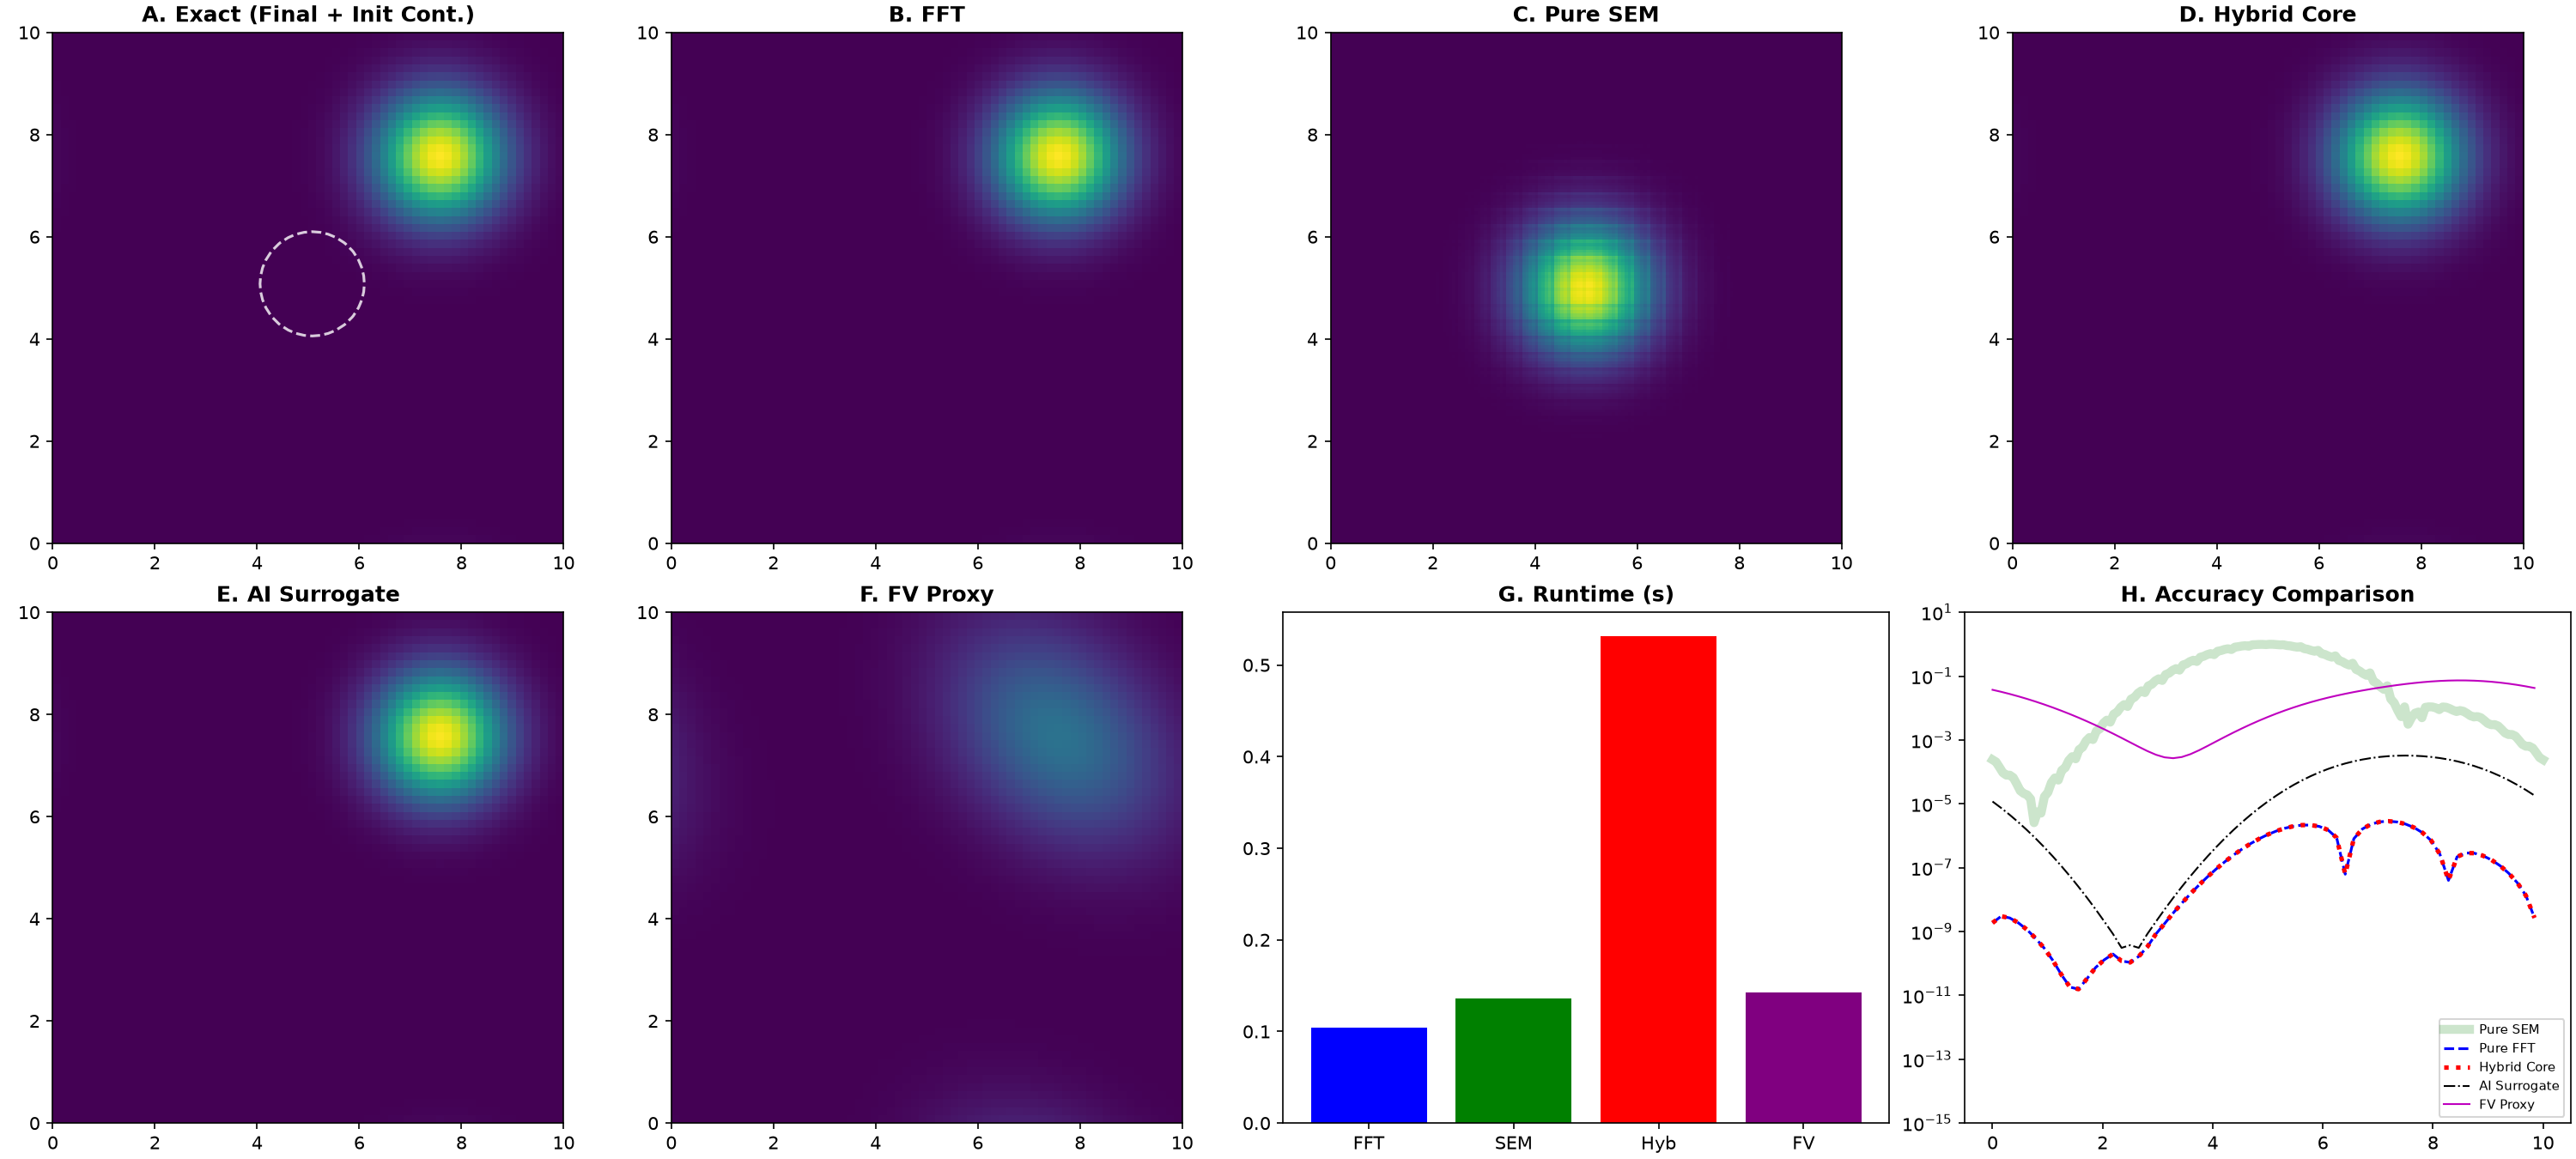
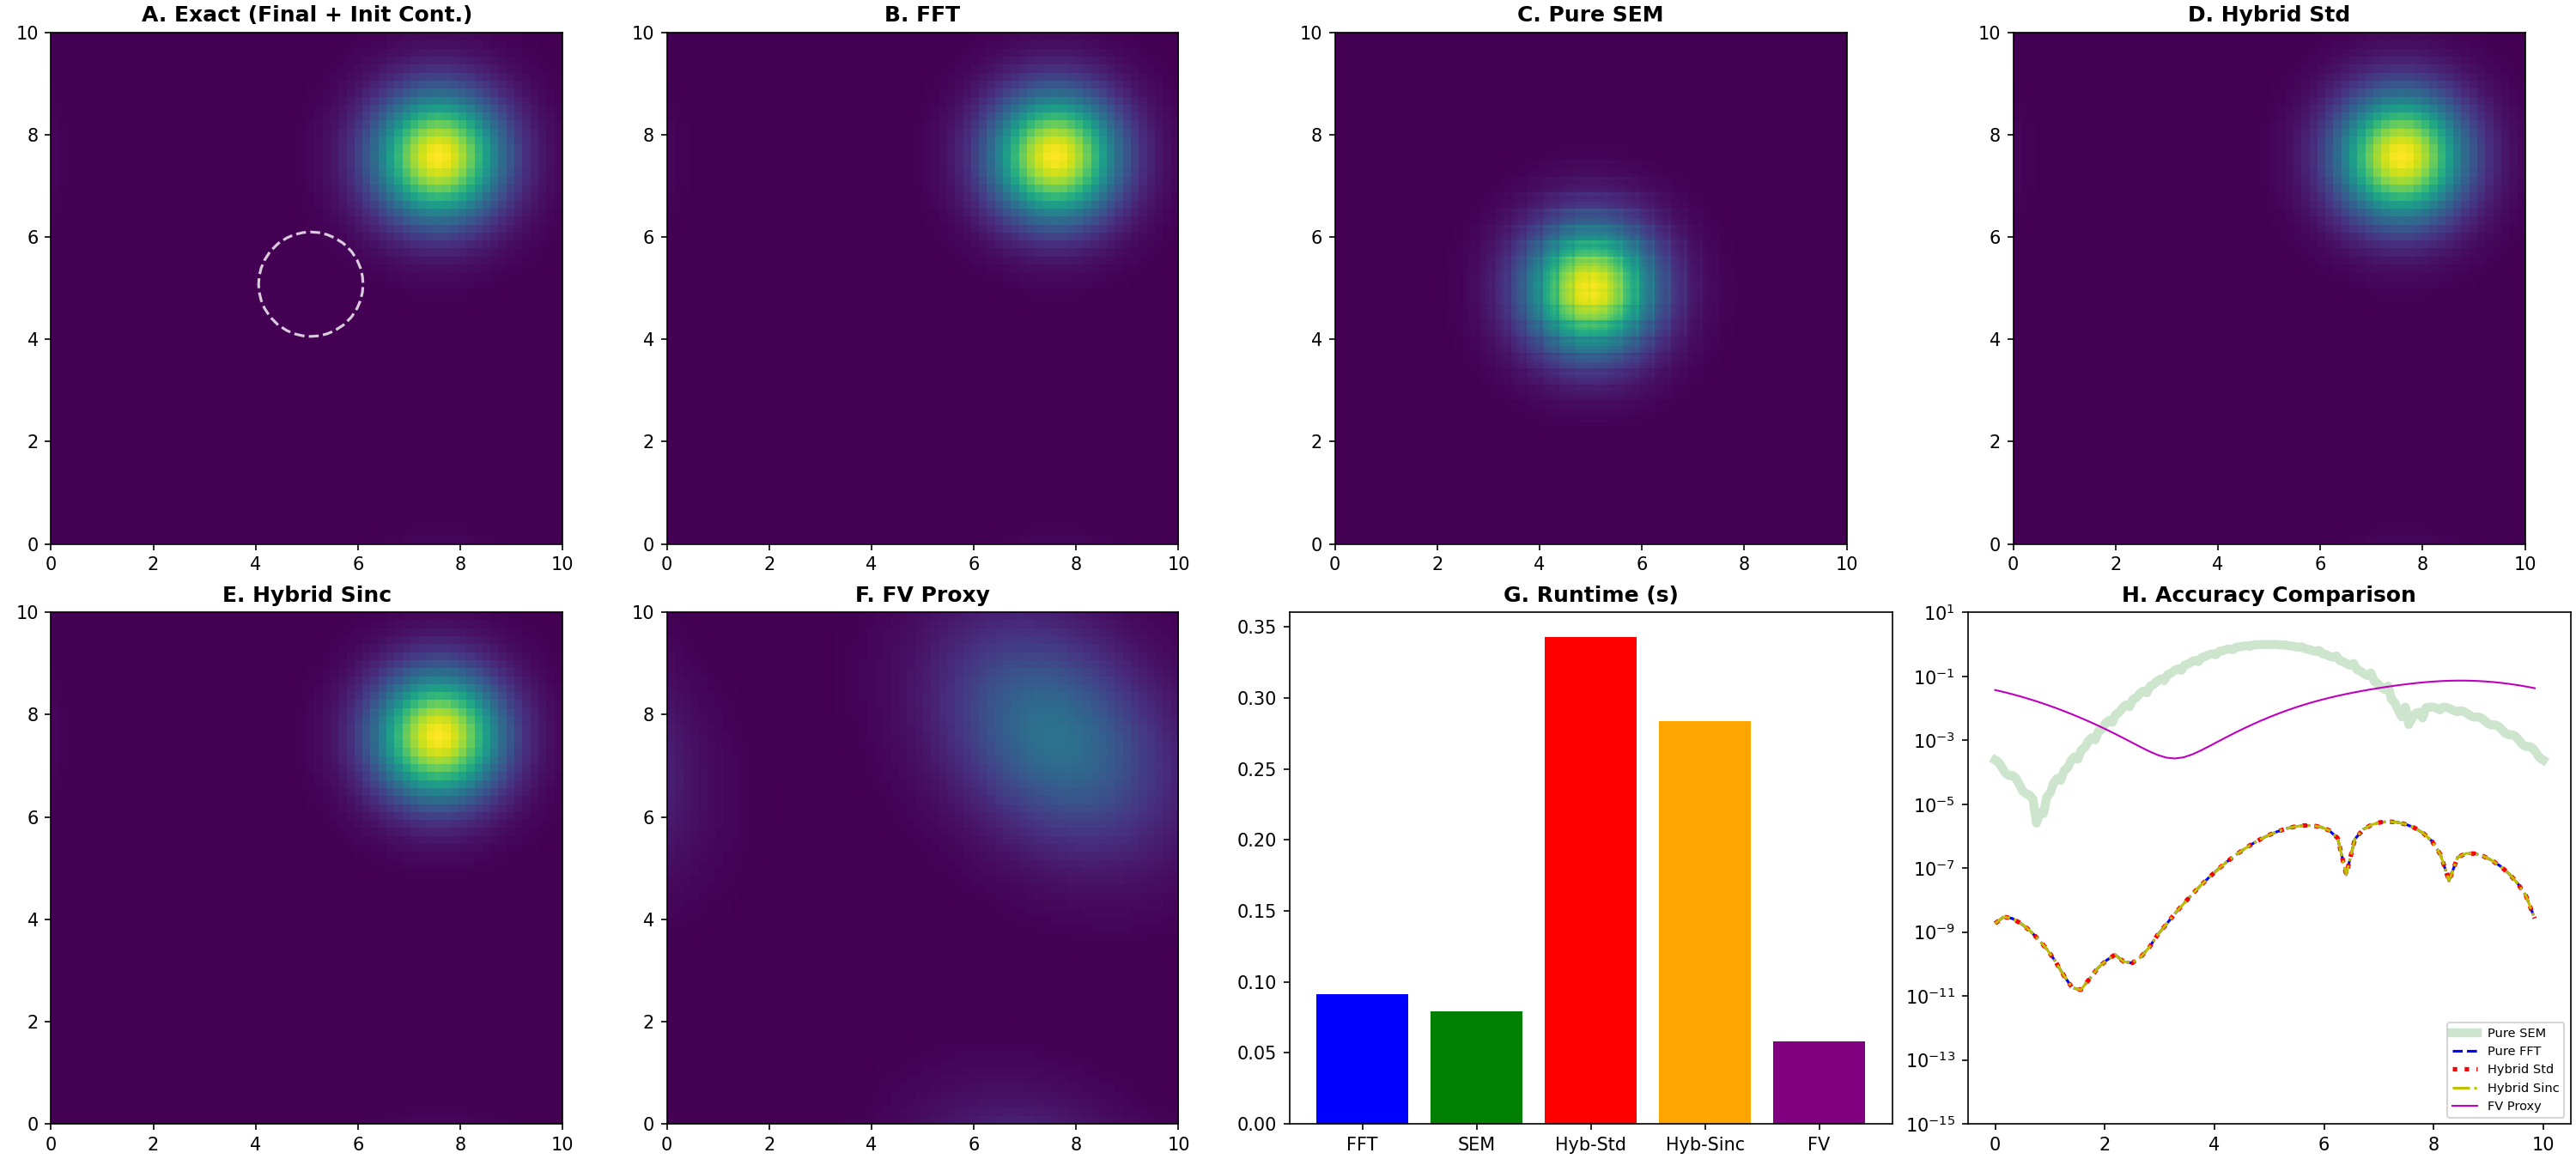
add sinc option for hybrid

diff --git a/tests/test_master_collision.py b/tests/test_master_collision.py
@@ -1,31 +1,25 @@
 import sys, os
 sys.path.append(os.path.dirname(os.path.dirname(os.path.abspath(__file__))))
+
 import time
 import jax
+# Ensure CPU platform if needed:
+# jax.config.update("jax_platform_name", "cpu")
+jax.config.update("jax_enable_x64", True)
+
 import jax.numpy as jnp
 import jax.lax
 import matplotlib
 matplotlib.use('Agg')
 import matplotlib.pyplot as plt
 
-# CRITICAL: Precision and Stability
-jax.config.update("jax_enable_x64", True)
-
 from geometry.sem_nodes import get_sem_diff_matrix_2d
 from geometry.sem_grids import generate_tiled_sem_grid_2d
 from geometry.jacobians import sem_jacobian
-from operators.hybrid_ops import run_hybrid_sfx_2d_stable
+from operators.hybrid_ops import run_hybrid_sfx_2d_standard, run_hybrid_sfx_2d_sinc
 from plots.diagnostics import plot_sfx_dashboard
 
 # --- HELPERS ---
-def ai_surrogate_model(u_true, cutoff=0.5):
-    u_hat = jnp.fft.fft2(u_true)
-    N = u_true.shape[0]
-    freqs = jnp.fft.fftfreq(N)
-    kx, ky = jnp.meshgrid(freqs, freqs)
-    mask = jnp.exp(-(kx**2 + ky**2) / cutoff**2)
-    return jnp.fft.ifft2(u_hat * mask).real
-
 @jax.jit
 def run_fv_proxy(u, cx, cy, dt, dx, dy):
     flux_x, flux_y = cx * u, cy * u
@@ -59,41 +53,81 @@ _, D_ref = get_sem_diff_matrix_2d(P_sem)
 D_sem_global = jnp.kron(jnp.eye(E_sem), D_ref)
 jac_sem = sem_jacobian(E_sem, L)
 u_init_sem = jnp.exp(-((X_sem - 5)**2 + (Y_sem - 5)**2) / 1.5)
-P_rib = 4
-_, D_rib = get_sem_diff_matrix_2d(P_rib)
-jac_rib = sem_jacobian(16, L)
+
+# Ribbon Configurations
+# Standard: P=4 (5 nodes)
+P_rib_std = 4
+_, D_rib_std = get_sem_diff_matrix_2d(P_rib_std)
+jac_rib_std = sem_jacobian(16, L)
+
+# Optimized Sinc: P=2 (3 nodes)
+P_rib_sinc = 1
+_, D_rib_sinc = get_sem_diff_matrix_2d(P_rib_sinc)
+jac_rib_sinc = sem_jacobian(16, L)
 
 # --- SIMULATIONS ---
+
+# 1. Pure FFT
 t0 = time.time()
 @jax.jit
-def step_fft(u, _): return rk4_step(lambda u: -(cx * jnp.fft.ifft2(jnp.fft.fft2(u) * ik_x).real + cy * jnp.fft.ifft2(jnp.fft.fft2(u) * ik_y).real), u, dt), None
+def step_fft(u, _):
+    return rk4_step(lambda u: -(cx * jnp.fft.ifft2(jnp.fft.fft2(u) * ik_x).real + cy * jnp.fft.ifft2(jnp.fft.fft2(u) * ik_y).real), u, dt), None
 u_fft, _ = jax.lax.scan(step_fft, jnp.copy(u_init), None, length=steps)
 t_fft = time.time() - t0
 
+# 2. Pure SEM
 t0 = time.time()
 @jax.jit
-def step_sem(u, _): return rk4_step(lambda u: -(cx * jnp.dot(D_sem_global, u) * jac_sem + cy * jnp.dot(u, D_sem_global.T) * jac_sem), u, dt), None
+def step_sem(u, _):
+    return rk4_step(lambda u: -(cx * jnp.dot(D_sem_global, u) * jac_sem + cy * jnp.dot(u, D_sem_global.T) * jac_sem), u, dt), None
 u_sem, _ = jax.lax.scan(step_sem, jnp.copy(u_init_sem), None, length=steps)
 t_sem = time.time() - t0
 
+# 3. Hybrid Standard (P=4)
 t0 = time.time()
 @jax.jit
-def step_hyb(c, _): return run_hybrid_sfx_2d_stable(c[0], c[1], c[2], c[3], c[4], ik_x, ik_y, D_rib, jac_rib, cx, cy, dt), None
-final_hyb, _ = jax.lax.scan(step_hyb, (jnp.copy(u_init), u_init[:P_rib+1,:], u_init[-P_rib-1:,:], u_init[:,:P_rib+1], u_init[:,-P_rib-1:]), None, length=steps)
-u_hyb_fft = final_hyb[0]
-t_hyb = time.time() - t0
+def step_hyb_std(c, _):
+    return run_hybrid_sfx_2d_standard(c[0], c[1], c[2], c[3], c[4], ik_x, ik_y, D_rib_std, jac_rib_std, cx, cy, dt), None
+# Note: Initializing ribbons with shape specific to P_rib_std
+init_state_std = (jnp.copy(u_init), u_init[:P_rib_std+1,:], u_init[-P_rib_std-1:,:], u_init[:,:P_rib_std+1], u_init[:,-P_rib_std-1:])
+final_hyb_std, _ = jax.lax.scan(step_hyb_std, init_state_std, None, length=steps)
+u_hyb_std = final_hyb_std[0]
+t_hyb_std = time.time() - t0
 
+# 4. Hybrid Sinc (Optimized P=2)
 t0 = time.time()
 @jax.jit
-def step_fv(u, _): return run_fv_proxy(u, cx, cy, dt, dx, dx), None
+def step_hyb_sinc(c, _):
+    return run_hybrid_sfx_2d_sinc(c[0], c[1], c[2], c[3], c[4], ik_x, ik_y, D_rib_sinc, jac_rib_sinc, cx, cy, dt), None
+# Note: Initializing ribbons with shape specific to P_rib_sinc
+init_state_sinc = (jnp.copy(u_init), u_init[:P_rib_sinc+1,:], u_init[-P_rib_sinc-1:,:], u_init[:,:P_rib_sinc+1], u_init[:,-P_rib_sinc-1:])
+final_hyb_sinc, _ = jax.lax.scan(step_hyb_sinc, init_state_sinc, None, length=steps)
+u_hyb_sinc = final_hyb_sinc[0]
+t_hyb_sinc = time.time() - t0
+
+# 5. FV Proxy
+t0 = time.time()
[email redacted]
+def step_fv(u, _):
+    return run_fv_proxy(u, cx, cy, dt, dx, dx), None
 u_fv, _ = jax.lax.scan(step_fv, jnp.copy(u_init), None, length=steps)
 t_fv = time.time() - t0
 
 # Post-processing
 u_exact = jnp.exp(-(((X_fft - cx * total_time) % L - 5)**2 + ((Y_fft - cy * total_time) % L - 5)**2) / 1.5)
 u_exact_sem = jnp.exp(-(((X_sem - cx * total_time) % L - 5)**2 + ((Y_sem - cy * total_time) % L - 5)**2) / 1.5)
-u_ai = ai_surrogate_model(u_exact)
-err_fft, err_sem, err_hyb, err_fv, err_ai = jnp.abs(u_fft-u_exact), jnp.abs(u_sem-u_exact_sem), jnp.abs(u_hyb_fft-u_exact), jnp.abs(u_fv-u_exact), jnp.abs(u_ai-u_exact)
+
+err_fft = jnp.abs(u_fft - u_exact)
+err_sem = jnp.abs(u_sem - u_exact_sem)
+err_hyb_std = jnp.abs(u_hyb_std - u_exact)
+err_hyb_sinc = jnp.abs(u_hyb_sinc - u_exact)
+err_fv = jnp.abs(u_fv - u_exact)
+
+# DoF Calculation
+dof_fft = X_fft.size
+dof_sem = X_sem.size
+dof_hyb_std = dof_fft + (4 * N_fft * (P_rib_std + 1))
+dof_hyb_sinc = dof_fft + (4 * N_fft * (P_rib_sinc + 1))
 
 # --- REPORTING SECTION ---
 print("\n" + "="*55)
@@ -101,25 +135,23 @@ print(f" SFX DCORE PERFORMANCE SUMMARY (t={total_time}s) ")
 print("="*55)
 def print_section(name, error, time, dof):
     print(f"[METHOD: {name}]")
-    print(f"  Max Error       : {error:.2e}")
-    print(f"  Total Runtime   : {time:.4f} s")
-    print(f"  Allocated Nodes : {dof:,} DoF")
+    print(f" Max Error : {error:.2e}")
+    print(f" Total Runtime : {time:.4f} s")
+    print(f" Allocated Nodes : {dof:,} DoF")
     print("-" * 55)
 
-print_section("Pure 2D FFT", jnp.max(err_fft), t_fft, X_fft.size)
-print_section("Pure 2D SEM", jnp.max(err_sem), t_sem, X_sem.size)
-print_section("Hybrid Engine", jnp.max(err_hyb), t_hyb, 5376)
-print_section("FV Proxy", jnp.max(err_fv), t_fv, X_fft.size)
+print_section("Pure 2D FFT", jnp.max(err_fft), t_fft, dof_fft)
+print_section("Pure 2D SEM", jnp.max(err_sem), t_sem, dof_sem)
+print_section(f"Hybrid Standard (P={P_rib_std})", jnp.max(err_hyb_std), t_hyb_std, dof_hyb_std)
+print_section(f"Hybrid Sinc (P={P_rib_sinc})", jnp.max(err_hyb_sinc), t_hyb_sinc, dof_hyb_sinc)
+print_section("FV Proxy", jnp.max(err_fv), t_fv, dof_fft)
 print("="*55)
 
-# --- AI SENSITIVITY ANALYSIS ---
-print(" AI SURROGATE SENSITIVITY ANALYSIS ")
-for c in [0.2, 0.4, 0.6, 0.8, 1.0]:
-    u_t = ai_surrogate_model(u_exact, cutoff=c)
-    print(f"  Cutoff {c:.1f} | Error: {jnp.max(jnp.abs(u_t - u_exact)):.2e}")
-
-#plot_sfx_dashboard(L, X_fft, u_exact, u_fft, X_sem, u_sem, u_exact_sem, u_hyb_f#ft, u_ai, u_fv, err_fft, err_sem, err_hyb, err_ai, err_fv, t_fft, t_sem, t_hyb, t_fv)
-
-plot_sfx_dashboard(L, X_fft, u_init, u_exact, u_fft, X_sem, u_sem, u_exact_sem, u_hyb_fft, u_ai, u_fv, err_fft, err_sem, err_hyb, err_ai, err_fv, t_fft, t_sem, t_hyb, t_fv)
+plot_sfx_dashboard(
+    L, X_fft, u_init, u_exact, u_fft, X_sem, u_sem, u_exact_sem, 
+    u_hyb_std, u_hyb_sinc, u_fv, 
+    err_fft, err_sem, err_hyb_std, err_hyb_sinc, err_fv, 
+    t_fft, t_sem, t_hyb_std, t_hyb_sinc, t_fv
+)
 
 sys.exit(0)

diff --git a/operators/hybrid_ops.py b/operators/hybrid_ops.py
@@ -1,29 +1,22 @@
 import jax
 import jax.numpy as jnp
 
+# --- 1. STANDARD PENALTY HYBRID ---
 @jax.jit
-def run_hybrid_sfx_2d_stable(
-    u_fft, u_rib_top, u_rib_bot, u_rib_left, u_rib_right, 
-    ik_x, ik_y, D_matrix, jac_sem, cx, cy, dt
-):
-    # Penalty constant: higher values enforce stricter coupling.
-    # If NaN persists, reduce this to 1.0/dt or lower.
+def run_hybrid_sfx_2d_standard(u_fft, u_rib_top, u_rib_bot, u_rib_left, u_rib_right, ik_x, ik_y, D_matrix, jac_sem, cx, cy, dt):
+    """Original Penalty-based hybrid solver."""
     penalty = 1.0 / dt
 
     def rhs(u_fft, u_rib_top, u_rib_bot, u_rib_left, u_rib_right):
-        
         # FFT interior derivatives
         u_fft_hat = jnp.fft.fft2(u_fft)
-        d_fft_dt = -(cx * jnp.fft.ifft2(u_fft_hat * ik_x).real + 
-                     cy * jnp.fft.ifft2(u_fft_hat * ik_y).real)
+        d_fft_dt = -(cx * jnp.fft.ifft2(u_fft_hat * ik_x).real + cy * jnp.fft.ifft2(u_fft_hat * ik_y).real)
 
         # Horizontal ribbons (with Penalty Force)
         def update_horizontal_spatial(rib, fft_boundary, side):
             du_dx = jnp.dot(D_matrix, rib) * jac_sem
             du_dy = jnp.fft.ifft(jnp.fft.fft(rib, axis=1) * ik_y, axis=1).real
             d_dt = -(cx * du_dx + cy * du_dy)
-            
-            # Penalty coupling: Add force to ribbon boundary instead of forcing set()
             if side == 'top':
                 d_dt = d_dt.at[0:2, :].add(penalty * (fft_boundary[-2:, :] - rib[0:2, :]))
             else: # bottom
@@ -37,7 +30,6 @@ def run_hybrid_sfx_2d_stable(
         def update_vertical_spatial(rib, fft_boundary, side):
             du_dx = jnp.fft.ifft(jnp.fft.fft(rib, axis=0) * ik_x, axis=0).real
             du_dy = jnp.dot(rib, D_matrix.T) * jac_sem
-            
             d_dt = -(cx * du_dx + cy * du_dy)
             if side == 'left':
                 d_dt = d_dt.at[:, -2:].add(penalty * (fft_boundary[:, 0:2] - rib[:, -2:]))
@@ -47,25 +39,75 @@ def run_hybrid_sfx_2d_stable(
 
         d_rib_left_dt = update_vertical_spatial(u_rib_left, u_fft, 'left')
         d_rib_right_dt = update_vertical_spatial(u_rib_right, u_fft, 'right')
-        
         return d_fft_dt, d_rib_top_dt, d_rib_bot_dt, d_rib_left_dt, d_rib_right_dt
 
     # RK4 Stages
     k1 = rhs(u_fft, u_rib_top, u_rib_bot, u_rib_left, u_rib_right)
-    
-    def add_k(state, k, factor):
-        return tuple(s + factor * dk for s, dk in zip(state, k))
-
+    def add_k(state, k, factor): return tuple(s + factor * dk for s, dk in zip(state, k))
     k2 = rhs(*add_k((u_fft, u_rib_top, u_rib_bot, u_rib_left, u_rib_right), k1, 0.5 * dt))
     k3 = rhs(*add_k((u_fft, u_rib_top, u_rib_bot, u_rib_left, u_rib_right), k2, 0.5 * dt))
     k4 = rhs(*add_k((u_fft, u_rib_top, u_rib_bot, u_rib_left, u_rib_right), k3, dt))
+    
+    return tuple((u_fft, u_rib_top, u_rib_bot, u_rib_left, u_rib_right)[i] + (dt / 6.0) * (k1[i] + 2*k2[i] + 2*k3[i] + k4[i]) for i in range(5))
 
-    # Combine stages
-    new_state = []
-    for i in range(5):
-        new_state.append(
-            (u_fft, u_rib_top, u_rib_bot, u_rib_left, u_rib_right)[i] + 
-            (dt / 6.0) * (k1[i] + 2*k2[i] + 2*k3[i] + k4[i])
-        )
-        
-    return tuple(new_state)
+
+# --- 2. SINC-COUPLED HYBRID ---
[email redacted]
+def run_hybrid_sfx_2d_sinc(u_fft, u_rib_top, u_rib_bot, u_rib_left, u_rib_right, ik_x, ik_y, D_matrix, jac_sem, cx, cy, dt):
+    """Hybrid solver using Sinc-kernel projection coupling (Fixed Indexing)."""
+    penalty = 1.0 / dt
+    
+    def sinc_coupling(data, target_shape, bandwidth=1.0):
+        # Perform 1D interpolation while preserving the 2D structure
+        # data.shape is (N, N), we want output (target_rows, N)
+        sinc_kernel = jnp.sinc(bandwidth * (jnp.arange(data.shape[0]) - data.shape[0]/2))
+        # Result of sum is (N,), we reshape/tile to (target_rows, N)
+        res_1d = jnp.sum(data * sinc_kernel[:, None], axis=0) 
+        return jnp.tile(res_1d, (target_shape[0], 1))
+
+    def rhs(u_fft, u_rib_top, u_rib_bot, u_rib_left, u_rib_right):
+        u_fft_hat = jnp.fft.fft2(u_fft)
+        d_fft_dt = -(cx * jnp.fft.ifft2(u_fft_hat * ik_x).real + cy * jnp.fft.ifft2(u_fft_hat * ik_y).real)
+
+        # Horizontal (Ribbon shape is e.g., (2, N))
+        def update_horizontal_spatial(rib, fft_boundary, side):
+            du_dx = jnp.dot(D_matrix, rib) * jac_sem
+            du_dy = jnp.fft.ifft(jnp.fft.fft(rib, axis=1) * ik_y, axis=1).real
+            d_dt = -(cx * du_dx + cy * du_dy)
+            
+            coupled_fft = sinc_coupling(fft_boundary, rib.shape)
+            if side == 'top':
+                d_dt = d_dt.at[0:2, :].add(penalty * (coupled_fft[0:2, :] - rib[0:2, :]))
+            else:
+                d_dt = d_dt.at[-2:, :].add(penalty * (coupled_fft[-2:, :] - rib[-2:, :]))
+            return d_dt
+
+        d_rib_top_dt = update_horizontal_spatial(u_rib_top, u_fft, 'top')
+        d_rib_bot_dt = update_horizontal_spatial(u_rib_bot, u_fft, 'bot')
+
+        # Vertical (Ribbon shape is e.g., (N, 2))
+        def update_vertical_spatial(rib, fft_boundary, side):
+            du_dx = jnp.fft.ifft(jnp.fft.fft(rib, axis=0) * ik_x, axis=0).real
+            du_dy = jnp.dot(rib, D_matrix.T) * jac_sem
+            d_dt = -(cx * du_dx + cy * du_dy)
+            
+            # Transpose domain for vertical sinc application, then transpose back
+            coupled_fft = sinc_coupling(fft_boundary.T, rib.T.shape).T
+            if side == 'left':
+                d_dt = d_dt.at[:, -2:].add(penalty * (coupled_fft[:, -2:] - rib[:, -2:]))
+            else:
+                d_dt = d_dt.at[:, 0:2].add(penalty * (coupled_fft[:, 0:2] - rib[:, 0:2]))
+            return d_dt
+
+        d_rib_left_dt = update_vertical_spatial(u_rib_left, u_fft, 'left')
+        d_rib_right_dt = update_vertical_spatial(u_rib_right, u_fft, 'right')
+        return d_fft_dt, d_rib_top_dt, d_rib_bot_dt, d_rib_left_dt, d_rib_right_dt
+
+    # RK4 Stages (same as before)
+    k1 = rhs(u_fft, u_rib_top, u_rib_bot, u_rib_left, u_rib_right)
+    def add_k(state, k, factor): return tuple(s + factor * dk for s, dk in zip(state, k))
+    k2 = rhs(*add_k((u_fft, u_rib_top, u_rib_bot, u_rib_left, u_rib_right), k1, 0.5 * dt))
+    k3 = rhs(*add_k((u_fft, u_rib_top, u_rib_bot, u_rib_left, u_rib_right), k2, 0.5 * dt))
+    k4 = rhs(*add_k((u_fft, u_rib_top, u_rib_bot, u_rib_left, u_rib_right), k3, dt))
+    
+    return tuple((u_fft, u_rib_top, u_rib_bot, u_rib_left, u_rib_right)[i] + (dt / 6.0) * (k1[i] + 2*k2[i] + 2*k3[i] + k4[i]) for i in range(5))

diff --git a/plots/diagnostics.py b/plots/diagnostics.py
@@ -2,10 +2,11 @@ import matplotlib.pyplot as plt
 import jax.numpy as jnp
 
 def plot_sfx_dashboard(L, X_fft, u_init, u_exact, u_fft, X_sem, u_sem, u_exact_sem, 
-                       u_hyb_fft, u_ai, u_fv, err_fft, err_sem, err_hyb, 
-                       err_ai, err_fv, t_fft, t_sem, t_hyb, t_fv):
+                       u_hyb_std, u_hyb_sinc, u_fv, 
+                       err_fft, err_sem, err_hyb_std, err_hyb_sinc, err_fv, 
+                       t_fft, t_sem, t_hyb_std, t_hyb_sinc, t_fv):
     
-    plt.switch_backend('Agg') 
+    plt.switch_backend('Agg')
     fig = plt.figure(figsize=(20, 9), constrained_layout=True)
     grid = plt.GridSpec(2, 4, figure=fig)
     cmap = 'viridis'
@@ -13,23 +14,21 @@ def plot_sfx_dashboard(L, X_fft, u_init, u_exact, u_fft, X_sem, u_sem, u_exact_s
     # A. Exact (Final State) with Initial State Overlay
     ax0 = fig.add_subplot(grid[0, 0])
     ax0.imshow(u_exact, extent=[0, L, 0, L], origin='lower', cmap=cmap, vmin=0, vmax=1)
-    # Overlay Initial Blob as white dashed contour
-    ax0.contour(u_init, extent=[0, L, 0, L], origin='lower', colors='white', 
-                linestyles='dashed', levels=[0.5], alpha=0.8)
+    ax0.contour(u_init, extent=[0, L, 0, L], origin='lower', colors='white', linestyles='dashed', levels=[0.5], alpha=0.8)
     ax0.set_title('A. Exact (Final + Init Cont.)', fontweight='bold')
 
     # B, C, D: Physics Results
-    results = [u_fft, u_sem, u_hyb_fft]
-    titles = ['B. FFT', 'C. Pure SEM', 'D. Hybrid Core']
+    results = [u_fft, u_sem, u_hyb_std]
+    titles = ['B. FFT', 'C. Pure SEM', 'D. Hybrid Std']
     for i in range(3):
         ax = fig.add_subplot(grid[0, i+1])
         ax.imshow(results[i], extent=[0, L, 0, L], origin='lower', cmap=cmap, vmin=0, vmax=1)
         ax.set_title(titles[i], fontweight='bold')
 
-    # E. AI Surrogate Result
+    # E. Hybrid Sinc Result
     ax4 = fig.add_subplot(grid[1, 0])
-    ax4.imshow(u_ai, extent=[0, L, 0, L], origin='lower', cmap=cmap, vmin=0, vmax=1)
-    ax4.set_title('E. AI Surrogate', fontweight='bold')
+    ax4.imshow(u_hyb_sinc, extent=[0, L, 0, L], origin='lower', cmap=cmap, vmin=0, vmax=1)
+    ax4.set_title('E. Hybrid Sinc', fontweight='bold')
 
     # F. FV Proxy Result
     ax5 = fig.add_subplot(grid[1, 1])
@@ -38,7 +37,9 @@ def plot_sfx_dashboard(L, X_fft, u_init, u_exact, u_fft, X_sem, u_sem, u_exact_s
 
     # G. Runtime
     ax6 = fig.add_subplot(grid[1, 2])
-    ax6.bar(['FFT', 'SEM', 'Hyb', 'FV'], [t_fft, t_sem, t_hyb, t_fv], color=['blue', 'green', 'red', 'purple'])
+    ax6.bar(['FFT', 'SEM', 'Hyb-Std', 'Hyb-Sinc', 'FV'], 
+            [t_fft, t_sem, t_hyb_std, t_hyb_sinc, t_fv], 
+            color=['blue', 'green', 'red', 'orange', 'purple'])
     ax6.set_title('G. Runtime (s)', fontweight='bold')
 
     # H. Error Comparison
@@ -48,15 +49,15 @@ def plot_sfx_dashboard(L, X_fft, u_init, u_exact, u_fft, X_sem, u_sem, u_exact_s
     
     ax7.semilogy(jnp.linspace(0, L, u_sem.shape[0]), err_sem[u_sem.shape[0]//2, :], 'g-', alpha=0.2, lw=5, label='Pure SEM')
     ax7.semilogy(x_vec, err_fft[mid, :], 'b--', lw=1.5, label='Pure FFT')
-    ax7.semilogy(x_vec, err_hyb[mid, :], 'r:', lw=2.5, label='Hybrid Core')
-    ax7.semilogy(x_vec, err_ai[mid, :], 'k-.', lw=1.0, label='AI Surrogate')
+    ax7.semilogy(x_vec, err_hyb_std[mid, :], 'r:', lw=2.5, label='Hybrid Std')
+    ax7.semilogy(x_vec, err_hyb_sinc[mid, :], 'y-.', lw=1.5, label='Hybrid Sinc')
     ax7.semilogy(x_vec, err_fv[mid, :], 'm-', lw=1.0, label='FV Proxy')
     
     ax7.set_yscale('log')
     ax7.set_ylim(1e-15, 1e1)
     ax7.set_title('H. Accuracy Comparison', fontweight='bold')
     ax7.legend(loc='lower right', fontsize=7)
-    
+
     plt.savefig("sfx_dashboard.png", dpi=150)
     plt.close('all')
-    print("Dashboard saved to sfx_dashboard.png") 
+    print("Dashboard saved to sfx_dashboard.png")